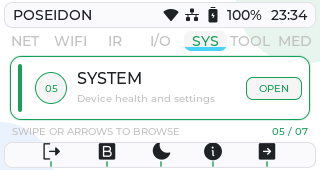
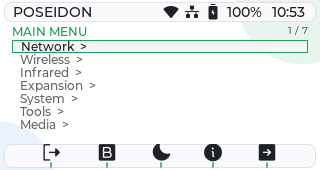
Prepare store listing and refresh screenshots

diff --git a/README.md b/README.md
@@ -246,8 +246,8 @@ and the Zero tools. The position counter is relative to the selected section, an
 description appears beneath the WiFi list.
 **Infrared → IR receive** listens for one raw signal for up to 15 seconds and shows pulse and
 space durations. It does not transmit or save the signal. A compatible LIRC receiver and permission
-to read it are required; the desktop simulator reports reception as unsupported. The store's
-`additional_hardware` permission mapping must be confirmed before publishing this feature.
+to read it are required; the desktop simulator reports reception as unsupported. The store listing
+declares `additional_hardware` for optional accessories.
 **Infrared → Receiver check** verifies that the device exposes a raw LIRC receiver without capturing
 or transmitting a signal. It reports the receiver device path when available; the desktop simulator
 reports the check as unsupported.
@@ -287,8 +287,7 @@ The original camera JPEG may contain camera metadata. This is not a live preview
 accessible camera and
 the camera utility are required; the desktop simulator reports it as unsupported. Physical
 capture and JPEG saving have been tested through the backend on the connected CardputerZero; the
-on-device viewer and save controls still need verification. Publishing requires the store camera
-permission.
+on-device viewer and save controls still need verification. The store listing declares camera use.
 **Media → Music** browses local files and plays a selected regular WAV, MP3, or FLAC file at 50% volume;
 press `ESC` to stop and return to the browser. Audio-device and decoding errors are shown.
 **Media → Piano** plays short generated tones with `A S D F G H J K` (C4 through C5);
@@ -298,7 +297,7 @@ press `ESC` to exit. Playback errors are shown; this is a simple tone keyboard, 
 Filenames are lowercase; embedded track artwork is not supported. The Gallery image limits apply.
 **Media → Microphone** asks for confirmation before listening for five seconds and shows the peak
 level. It does not record or save audio; `ESC` cancels. An accessible microphone is required, and
-the app-store microphone permission must be configured before this feature is published. A
+the store listing declares microphone use. A
 five-second backend test received samples on the connected device; the UI remains unverified.
 **Media → Recorder** asks before recording five seconds in memory. Press `ENTER` afterward to save
 a mono 16 kHz WAV file in `~/poseidon-recordings`, or `ESC` to discard it. Saving creates a new file
@@ -1248,7 +1247,8 @@ installing; directories and the executable should be `755`, and data files `644`
 3. Review the package checks, then complete the listing: unique app name, summary, category,
    author name, SPDX license, an available four-character share code, declared permissions, icon,
    and 1–6 screenshots at 320×170. A public source repository is optional but can prefill the
-   listing from this repository's `app-builder.json`.
+   listing from this repository's `app-builder.json`. The included dark and light screenshots
+   are simulator captures of the current main menu.
 4. Submit the package. The portal creates a review pull request. For a first-time submission,
    include a short demo video in that pull request. After it is merged, the store index may take a
    few minutes to update. The first uploader owns the package name; later package releases must
